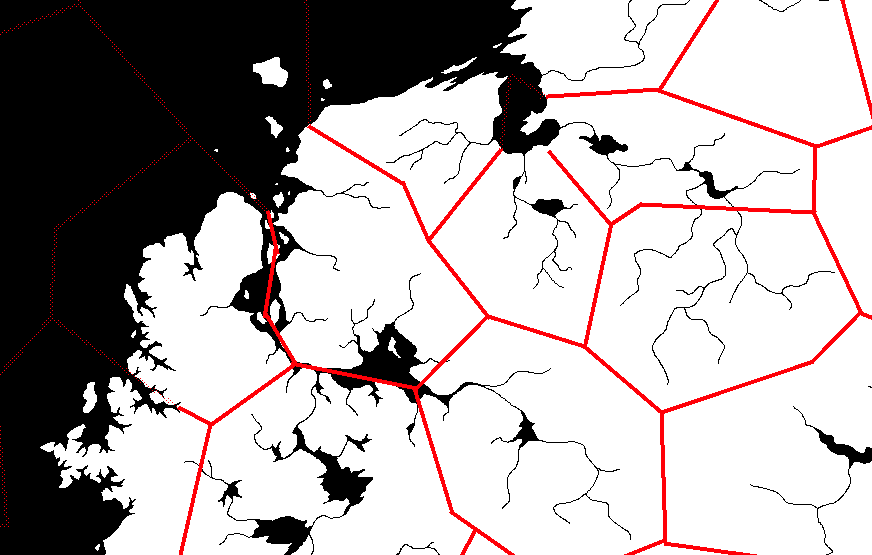
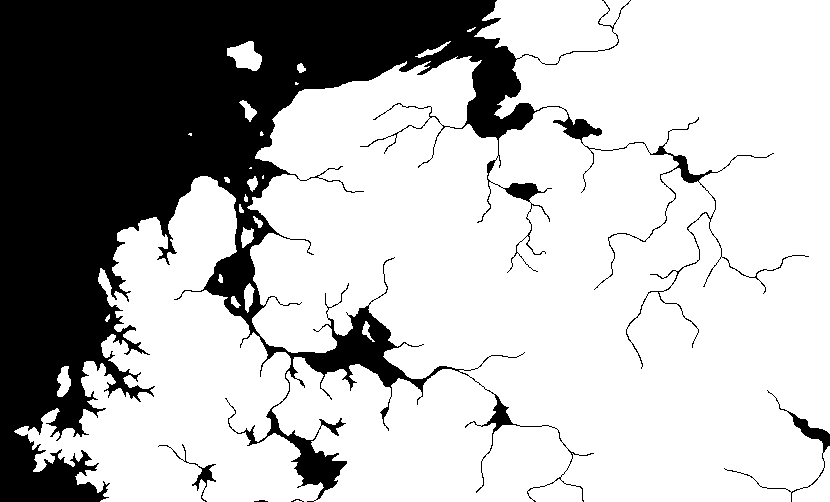
Drawing province areas started

diff --git a/app/ts/mapContainer.ts b/app/ts/mapContainer.ts
@@ -1,5 +1,5 @@
 /// <reference path="drawable/drawableBase.ts" />
-/// <reference path="../../common/settings.ts" />
+/// <reference path="game.ts" />
 /// <reference path="../pixi-typescript/pixi.js.d.ts" />
 
 /*
@@ -24,9 +24,9 @@ class MapContainer {
 		// NOTE: Cannot use stage as container since units etc. are added to stage, and children share interactions
 		private stage: PIXI.Container, // The non-interactive basecontainer, should be same size as container
 		private renderer: PIXI.WebGLRenderer | PIXI.CanvasRenderer,
-		provinceSettings: ProvinceSettings) {
+		game: Game) {
 
-		let tausta: PIXI.Sprite = new PIXI.Sprite(DrawableBase.Resource['tausta'].texture);
+		let tausta: PIXI.Sprite = new PIXI.Sprite(DrawableBase.Resource['map'].texture);
 		tausta.tint = 0x009900;
 		this.container.addChild(tausta);
 		this.container.interactive = true;
@@ -37,11 +37,44 @@ class MapContainer {
 			.on('pointerupoutside', (evt : PIXI.interaction.InteractionEvent) => this.onPointerEnd(evt))
 			.on('pointermove', (evt : PIXI.interaction.InteractionEvent) => this.onPointerMove(evt));
 
+		// Draw area for every province
+		game.AllProvinces().forEach(province => {
+			if (province.Neighbours.some(n => n.borderPoints === undefined)) return; // TODO: Get rid when static data is validated in loader
+			let points: [number, number, boolean][] = province.Points.filter( // Filter uniques
+				(p, pos, a) => { return a.findIndex(pp => (p[0] == pp[0] && p[1] == pp[1])) == pos; });
+			// TODO: Sort clockwise
+
+			let provincePoly = new PIXI.Graphics();
+			provincePoly.beginFill(0x00FFFF); // TODO: Get color from owner
+
+			// draw a shape
+			provincePoly.moveTo(points[points.length - 1][0], points[points.length - 1][1]);
+			points.forEach(point => provincePoly.lineTo(point[0], point[1]));
+			provincePoly.endFill();
+			this.container.addChild(provincePoly);
+		});
+		this.container.addChild(new PIXI.Sprite(DrawableBase.Resource['map-mask'].texture));
+
+		// Draw borders for every province
+		let createdIDs: number[] = [];
+		game.AllProvinces().forEach((province, i, a) => {
+			if (province.Neighbours.some(n => n.borderPoints === undefined)) return; // TODO: Get rid when static data is validated in loader
+			province.Neighbours.forEach(n => {
+				let borderLine = new PIXI.Graphics();
+				borderLine.lineStyle(4, 0xFF0000, 1); // TODO: Style by owner
+
+				// TODO: Path cannot contain same point twice, is this the most pretty version of doing this?
+				let firstpoint: [number, number, boolean] | undefined = n.borderPoints.shift();
+				if (firstpoint) {
+					borderLine.moveTo(firstpoint[0], firstpoint[1]);
+					n.borderPoints.forEach(p => borderLine.lineTo(p[0], p[1]));
+					this.container.addChild(borderLine);
+				}
+			});
+		});
 		this.stage.addChildAt(this.container, 0);
 		this.Resize(); // Needs to be done once at first
 	}
-
-	// public CreateProvince // AASDF
 
 	private onPointerStart (evt : PIXI.interaction.InteractionEvent) {
 		// TODO: Get pointerdata.button for different button interactions

diff --git a/app/ts/province.ts b/app/ts/province.ts
@@ -16,21 +16,22 @@ class Province extends Token implements IProvince {
 	readonly population: number;
 	readonly resources: string[];
 
+	get Name(): string { return this.settings.name; };
+	get Neighbours(): ProvinceNeighbour[] { return this.settings.neighbours; }; // TODO: Separate for getting neighbour provinces vs settingsdata
+	get Points(): [number, number, boolean][] { return [].concat.apply([], this.settings.neighbours.map(n => n.borderPoints)); };
+
 	public constructor(
-		private readonly x: number, // Must be saved for army placings 
-		private readonly y: number,
-		public Name: string,
-		public Neighbours: ProvinceNeighbour[],
+		private readonly settings: ProvinceData,
 		data: IProvince, 
-		color: PlayerColor) 
+		public readonly Owner?: Player) 
 	{
 		super({image: Province.Picture});
-		this.Container.x = this.x;
-		this.Container.y = this.y;
+		this.Container.x = this.settings.x;
+		this.Container.y = this.settings.y;
 		DrawableBase.Add(this.Container); // TODO: Move to loader
-		this.changeTint(ColorToNumber(color));
+		this.changeTint(ColorToNumber(Owner ? Owner.color : "GRAY"));
 		Input.SetProvinceInteractions(this);
-		this.AddText(Name, 0, 30);
+		this.AddText(settings.name, 0, 30);
 
 		// Go through data
 		this.id = data.id;
@@ -39,9 +40,9 @@ class Province extends Token implements IProvince {
 		this.resources = data.resources;
 
 		for (let army of data.armies) {
-			let newArmy: Army = new Army(army, color, this);
-			newArmy.Container.x = this.x; // TODO: Smarter way to do this, e.g. "addNewArmy()" in which y = y + 50 * i
-			newArmy.Container.y = this.y + 15;
+			let newArmy: Army = new Army(army, Owner ? Owner.color : "GRAY", this);
+			newArmy.Container.x = this.settings.x; // TODO: Smarter way to do this, e.g. "addNewArmy()" in which y = y + 50 * i
+			newArmy.Container.y = this.settings.y + 15;
 			this.armies.push(newArmy);
 			DrawableBase.Add(newArmy.Container);
 		}

diff --git a/app/ts/loader.ts b/app/ts/loader.ts
@@ -5,7 +5,6 @@
 /// <reference path="../../common/settings.ts" />
 
 // This class contacts the server / loads dev files
-
 namespace IslandIV {
 	export class GameLoader {
 		// These are the stuff to load
@@ -74,7 +73,8 @@ namespace IslandIV {
 
 			// Not very sophisticated atm, just loads all hardcoded images
 			let pixiLoader: PIXI.loaders.Loader = new PIXI.loaders.Loader('./img/');
-			pixiLoader.add('tausta', this.ProvinceSettings.mapIMG);
+			pixiLoader.add('map', this.ProvinceSettings.mapIMG);
+			pixiLoader.add('map-mask', this.ProvinceSettings.maskIMG);
 			pixiLoader.add('unit', this.GameSettings.unitIMG); // Prolly temporary, if using spritesheets
 			pixiLoader.add('province', this.GameSettings.provinceIMG);
 
@@ -94,6 +94,7 @@ namespace IslandIV {
 				if (province.x === undefined) throw new Error("Provincedata error: (" + index + ") No x-coord!");
 				if (province.y === undefined) throw new Error("Provincedata error: (" + index + ") No y-coord!");
 				
+				/* TODO: Move these to "after creating everything" -validation			
 				if (province.neighbours === undefined) throw new Error("Provincedata error: (" + index + ") No neighbours!");
 				if (province.neighbours.length === 0) throw new Error("Provincedata error: (" + index + ") Empty neighbours!");
 				if (province.neighbours.some((neighbour: ProvinceNeighbour) => { return neighbour.neighbourIndex === index; }))
@@ -105,7 +106,7 @@ namespace IslandIV {
 					{
 						throw new Error("Provincedata error: (" + index + ") No pair neighbour with (" + neighbour + ")!");
 					}
-				});
+				});*/
 			});
 		}
 	}

diff --git a/app/ts/game.ts b/app/ts/game.ts
@@ -33,15 +33,19 @@ class Game implements IGame {
 			this.players.push(new Player(playerData, index, this.ProvinceSettings));
 		});
 		data.neutralProvinces.forEach((provinceData: IProvince, index: number) => {
-			let obj = this.ProvinceSettings.provinces[provinceData.id];
-			this.neutralProvinces.push(new Province(obj.x, obj.y, obj.name, obj.neighbours, provinceData, "GRAY"));
+			let settings = this.ProvinceSettings.provinces[provinceData.id];
+			this.neutralProvinces.push(new Province(settings, provinceData));
 		});
 
 		Game.CurrentPlayer = this.players[0];
 	}
-	public CreateMapContainer(stage: PIXI.Container, renderer: PIXI.WebGLRenderer | PIXI.CanvasRenderer, provinceSettings: ProvinceSettings) {
-		this._mapContainer = new MapContainer(stage, renderer, provinceSettings);
+	public CreateMapContainer(stage: PIXI.Container, renderer: PIXI.WebGLRenderer | PIXI.CanvasRenderer, game: Game) {
+		this._mapContainer = new MapContainer(stage, renderer, game);
 		Input.Init(this._mapContainer);
+	}
+	// Returns all provinces of the game sorted by ID
+	public AllProvinces(): Province[] {
+		return this.neutralProvinces.concat([].concat.apply([], this.players.map((player: Player) => { return player.provinces; }))).sort((a, b) => a.id - b.id);
 	}
 
 }

diff --git a/common/settings.ts b/common/settings.ts
@@ -6,28 +6,24 @@
 // with exception of neighbours and names, which are needed by server too
 interface ProvinceSettings {
 	mapIMG: string, // File, must be located at /img/
+	maskIMG: string,
 	provinces: ProvinceData[],
 }
 interface ProvinceData {
-	x: number, // Place for all untis etc.
+	x: number, // Center-place for all units etc. not used in clockwise calculation though
 	y: number,
 	name: string,
-	type: ProvinceType,
-	neighbours: ProvinceNeighbour[], // Cannot be empty!
+	terrain: Terrain,
+	neighbours: ProvinceNeighbour[],
 }
-type ProvinceType =
+type Terrain =
 	"Plains" |
 	"Sea" |
 	"Deep sea"
 interface ProvinceNeighbour {
-	neighbourIndex: number,
-	border: BorderPoint[],
-	borderType: BorderType
-}
-interface BorderPoint {
-	x: number,
-	y: number,
-	invis: boolean
+	index: number, // Index of neighbour in settings
+	borderPoints: [number, number, boolean][], // [x,y,invis][x,y,invis]
+	borderType?: BorderType
 }
 type BorderType =
 	"Normal" |

diff --git a/app/ts/main.ts b/app/ts/main.ts
@@ -37,7 +37,7 @@ namespace IslandIV {
 			IslandIV.CurrentGame = new Game(gameLoader.GameData!, gameLoader.ProvinceSettings!, gameLoader.GameSettings!);
 			UI.Game(PIXIApp.view);
 			setTimeout(() => { // Just to see stuff with a small delay
-				IslandIV.CurrentGame.CreateMapContainer(PIXIApp.stage, PIXIApp.renderer, IslandIV.CurrentGame.ProvinceSettings);
+				IslandIV.CurrentGame.CreateMapContainer(PIXIApp.stage, PIXIApp.renderer, IslandIV.CurrentGame);
 				IslandIV.CurrentGame.MapContainer.FocusStage(Game.CurrentPlayer.FocusCenter());
 				UI.LoadingOff();
 			}, 1000);

diff --git a/app/ts/order.ts b/app/ts/order.ts
@@ -52,7 +52,7 @@ class MoveOrder extends Order {
 	public static Create(fromProvince: Province, toProvince: Province, unit: UnitToken) {
 		// 1. Validate
 		if (fromProvince !== toProvince && !fromProvince.Neighbours.some(
-			(neighbour: ProvinceNeighbour) => { return neighbour.neighbourIndex === (toProvince.id); }))
+			(neighbour: ProvinceNeighbour) => { return neighbour.index === (toProvince.id); }))
 		{
 			console.log("Not a neighbour!");
 			return;

diff --git a/app/ts/player.ts b/app/ts/player.ts
@@ -46,8 +46,8 @@ class Player implements IPlayer {
 		this.techs = data.techs;
 
 		for (var provinceData of data.provinces) {
-			let obj = provinceSettings.provinces[provinceData.id];
-			this.provinces.push(new Province(obj.x, obj.y, obj.name, obj.neighbours, provinceData, this.color));
+			let settings = provinceSettings.provinces[provinceData.id];
+			this.provinces.push(new Province(settings, provinceData, this));
 		}
 
 		// TODO: Generate instances
